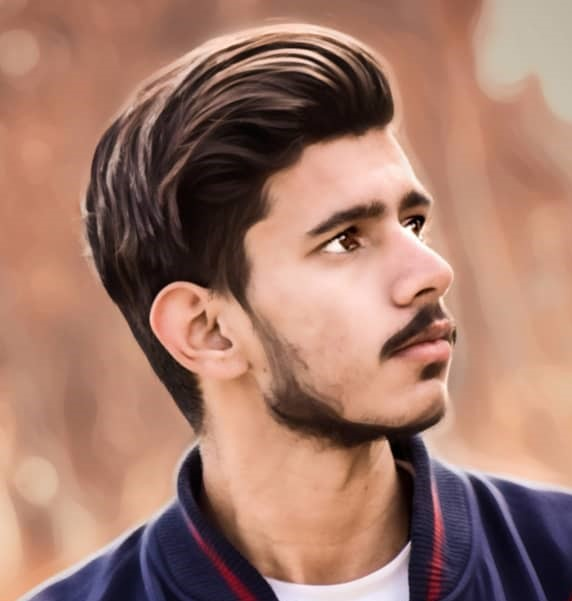
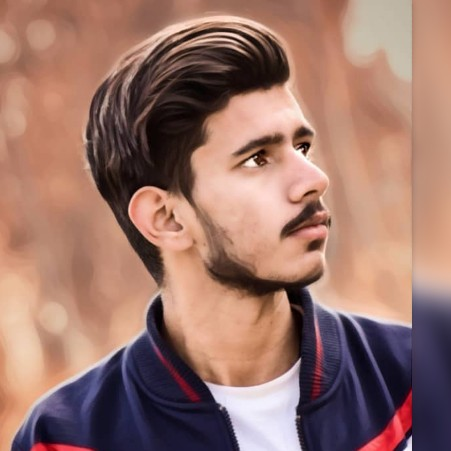
My Portfolio Website

diff --git a/index.html b/index.html
@@ -62,14 +62,18 @@
           if (i === 31) clearInterval(t);
         }, 200);
       }
-
     </script>
   </header>
   <!--______________________ Start a grid container________________________ -->
   <aside id="side-container" class="aside">
     <img id="main-image" src="assets/tush.jpg" alt="">
     <h2 id="hello"></h2>
-    <h3>Full stack developer | DevOps Enthusiast</h3>
+    <h3 id="software-engineer">Full Stack Software Engineer</h3>
+    <div class="sidenav">
+      <h4><a href="#myportfolio">Portfolio</a></h4>
+      <h4><a href="#projectcontainer">Projects</a></h4>
+      <h4><a href="https://tush-tr.medium.com/">Blogs</a></h4>
+    </div>
     <div class="contact">
       <a href="https://www.linkedin.com/in/tushar-r-849510116/" target="_blank"><img id="linkedin-logo"
           src="assets/linkedin.png" alt=""></a>
@@ -80,7 +84,7 @@
     </div>
   </aside>
   <!-- right side section of information -->
-  <section class="information">
+  <section id="myportfolio" class="information">
     <h2>About.</h2><br>
     <div class="paras">
       <p class="firstparaaboutme">
@@ -147,18 +151,18 @@
     <br><br>
     <div id="projectcontainer">
       <div class="workcards1">
-        <a href="https://tush-tr.github.io/html_and_css/project_03/index.htm" target="_blank">
+        <a href="https://github.com/tush-tr/college-review" target="_blank">
           <section class="worksection">
-            <img src="work/frontend/fooddelivery.gif" alt="">
+            <img src="work/college-review.gif" alt="">
             <div class="headingofwork">
-              A responsive food delivery website
+              Review your college website
             </div>
           </section>
         </a>
         <a href="/projects/dice_simulator/index.htm" target="_blank">
           <section class="worksection">
-            <img src="work/vanilla-js/vanilla-cr.gif" alt="">
-            <div class="headingofwork">Customer reviewer app</div>
+            <img src="work/search-employees.gif" alt="">
+            <div class="headingofwork">Search Your Employees</div>
           </section>
         </a>
 
@@ -166,16 +170,16 @@
 
       <!-- Workcontainer -->
       <div class="workcards1">
-        <a href="" target="_blank">
+        <a href="https://github.com/tush-tr/flask-sample-restful-api" target="_blank">
           <section class="worksection">
-            <img src="/work/vanilla-js/analogclock.gif" alt="">
-            <div class="headingofwork">Analog Clock</div>
+            <img src="/work/rest-flask.jpg" alt="">
+            <div class="headingofwork">Restful API</div>
           </section>
         </a>
-        <a href="https://tush-tr.github.io/vanilla_js_projects/typing-speed-tester/" target="_blank">
+        <a href="https://github.com/tush-tr/Vakra-UI" target="_blank">
           <section class="worksection">
-            <img src="work/vanilla-js/typing.gif" alt="">
-            <div class="headingofwork">typing speed tester</div>
+            <img src="work/logo.jpg" alt="">
+            <div class="headingofwork">Vakra - UI Framework</div>
 
           </section>
           </a>
@@ -184,11 +188,17 @@
     <br>
     <section class="badges">
       <h1>My small achievements</h1>
-      <p class="bigbadges">
-        <img src="/badges/gcp/cloud-engineering.png" alt="">
-        <img src="/badges/gcp/fundamentals.png" alt="">
-      </p>
       <div class="smallbadges">
+        <div class="badgescon">
+          <div id="cloud-eng">
+            <img src="/badges/gcp/cloud-eng.png" alt="">
+          </div>
+          <div id="cloud-funda">
+
+            <img src="/badges/gcp/funda.png" alt="">
+          </div>
+
+        </div>
         <div class="badgescon">
         <img src="/badges/hackerrank/python.png" alt="">
         <img src="/badges/hackerrank/c.png" alt="">

diff --git a/css/style.css b/css/style.css
@@ -3,6 +3,7 @@
     padding: 0 80px;
     font-family: 'Sansita Swashed', cursive;
 } */
+@import url('https://fonts.googleapis.com/css2?family=Bebas+Neue&display=swap');
 header{
     position: absolute;
     top: 0;
@@ -28,7 +29,7 @@ body{
 }
 /* ________________Aside________________ */
 #side-container{
-    width: 30vw;
+    width: 24vw;
     display: flex;
     align-items: center;
     justify-content: center;
@@ -37,6 +38,24 @@ body{
     height: 94vh;
     text-overflow: clip;
     margin-top: 35px;
+    color: black;
+    
+}
+.sidenav{
+    margin-right: 150px;
+    margin-bottom: 60px;
+}
+.sidenav h4{
+    font-family: 'Bebas Neue', cursive;
+    font-size: 1.3rem;
+    padding: 5px;
+}
+.sidenav h4 a:hover{
+    color: black;
+}
+.sidenav h4 a{
+    text-decoration: none;
+    color: #3c3434;
     
 }
 aside::before{
@@ -53,22 +72,22 @@ aside::before{
     -webkit-filter: blur(13px);
 }
 #main-image{
-    height: 14rem;
-    width: 13rem;
+    height: 11rem;
+    width: 11rem;
     border: transparent;
-    border-radius: 1.3rem;
-    margin: 1rem 2rem 4rem 0rem;
-    box-shadow: 6px 4px rgba(226, 147, 115, 0.63);
+    border-radius: 50%;
+    margin: 0rem 0rem 1rem 0rem;
+    
 }
 #main-image:hover{
     transform: rotate(-3deg);
-    height: 15rem;
-    width: 14rem;
+    height: 12rem;
+    width: 12rem;
 }
 .aside h2{
     font-family: 'Sansita Swashed', cursive;
     /* padding: 1rem 1rem; */
-    margin: 0rem 0rem 1rem 0rem;
+    margin: 0rem 0rem 0rem 0rem;
     font-size: 2.3rem;
 }
 .aside h3{
@@ -102,7 +121,7 @@ aside::before{
   padding: 4vh 3vw;
   height: 100vh;
   display: inline-block;
-  padding-left: 33vw;
+  padding-left: 27vw;
   color: white;
   margin-top: 40px;
 }
@@ -119,26 +138,35 @@ aside::before{
 
 
 @media (min-width: 200px) and (max-width: 600px){
+    .sidenav{
+        display: none;
+    }
+    
     #side-container{
         width: 100%;
         margin: 15px 0px;
         position: relative;
-
-
+        height: 66vh;
+    }
+    #projectcontainer{
+        width: 90vw;
     }
     header{
         position: absolute;
         top: 0;
-        
     }
     #main-image{
-        margin: 60px 20px 55px 0px;
+        margin: 65px 0px 10px 0px;
     }
     .information{
         position: relative;
         display: inline-block;
         padding: 5vw 8vw;
-        width: 90vw;
+        width: 100vw;
+        margin: 0 0;
+    }
+    .paras{
+        font-size: .9rem;
     }
 
     

diff --git a/css/work.css b/css/work.css
@@ -48,38 +48,49 @@
 }
 
 
-.badges{}
-.badges .bigbadges{
-    display: flex;
-    justify-content: center;
-    align-items: center;
+.badges{
     border: 2px solid #403a3a;
     border-radius: 162px;
-}
-.badges .bigbadges img{
-    height: 250px;
-    width: 32%;
-    margin: 10px 30px;
+    text-align: center;
 }
 .smallbadges{
     display: flex;
     justify-content: center;
     align-items: center;
-    border: 2px solid #403a3a;
-    border-radius: 162px;
+    margin-bottom: 40px;
+    
 }
 .badgescon img{
     height: 103px;
     width: 91px;
     margin: 10px 30px;
     margin: 23px 10px;
+    border-radius: 50%;
+}
+.badgescon div{
+    height: 103px;
+    width: 91px;
+    margin: 10px 30px;
+    margin: 23px 10px;
+    border-radius: 50%;
+    display: contents;
+
 }
 
 @media (min-width: 200px) and (max-width: 600px){
+    .worksection:hover{
+    
+        width: 90%;
+    
+    }
+    .worksection img:hover{
+        height: 14rem;
+    }
     .workcards1{
         flex-direction: column;
         justify-content: center;
         align-items: center;
+        margin: 0 0;
     }
     .worksection{
         width: 90%;
@@ -94,13 +105,17 @@
         width: 80%;
 
     }
-    .badges .bigbadges{
-        flex-direction: column;
-        border: none;
+    .badges{
+        border-radius: 24px;
+    padding-top: 24px;
+    margin-bottom: 15px;
     }
     .smallbadges{
         border: none;
         flex-direction: column;
+    }
+    .badges .bigbadges div{
+        width: 80%;
     }
     .badges .bigbadges img{
         width: 80%;

diff --git a/projects/index.html b/projects/index.html
@@ -76,6 +76,26 @@
           </a>
           
         </div>
+        <div class="row-containers">
+          <a href="https://github.com/tush-tr/college-review" target="_blank">
+            <div class="col worksection">
+              <img src="../work/rest-flask.jpg" alt="">
+              <div class="headingofwork">
+                Restful API
+              </div>
+            </div>
+          </a>
+
+          <a href="https://github.com/tush-tr/mern-customer-review-app" target="_blank">
+            <div class="col worksection">
+              <img src="../work/logo.jpg" alt="">
+              <div class="headingofwork">
+                Vakra - UI Framework
+              </div>
+            </div>
+          </a>
+          
+        </div>
       </div>
 
 
@@ -106,6 +126,8 @@
           </a>
         </div>
         <!-- container -->
+        <button class="viewbutton1">View More</button>
+        <div class="viewmore1">
         <div class="row-containers">
           <a href="https://tush-tr.github.io/frontend-landing-pages/assesment1/" target="_blank">
             <div class="col worksection">
@@ -123,7 +145,7 @@
               </div>
             </div>
           </a>
-        </div>
+        </div></div>
 
       </div>
 

diff --git a/projects/script.js b/projects/script.js
@@ -1,0 +1,18 @@
+const viewmore = document.querySelector(".viewbutton1");
+const viewcontent = document.querySelector(".viewmore1");
+for(var i =1;i<2;i++){
+    document.querySelector(`.viewmore${i}`).style.display = "none";
+}
+for(var i=1;i<2;i++){
+    document.querySelector(`.viewbutton${i}`).addEventListener("click",()=>{
+    if(document.querySelector(`.viewmore${i}`).style.display == "none"){
+        document.querySelector(`.viewbutton${i}`).innerHTML = "View Less";
+        document.querySelector(`.viewmore${i}`).style.display = "block";
+    }
+    else{
+        document.querySelector(`.viewbutton${i}`).innerHTML = "View More";
+
+        document.querySelector(`.viewmore${i}`).style.display = "none";
+    }
+});
+}

diff --git a/projects/style.css b/projects/style.css
@@ -37,7 +37,7 @@ body::before{
 
 /* Section of info */
 #mainsection{
-    background-color: #5a6167;
+    background-color: #5a6167c2;
     /* border: 2px solid; */
     margin: 10px 15%;
     /* border-radius: 8rem; */
